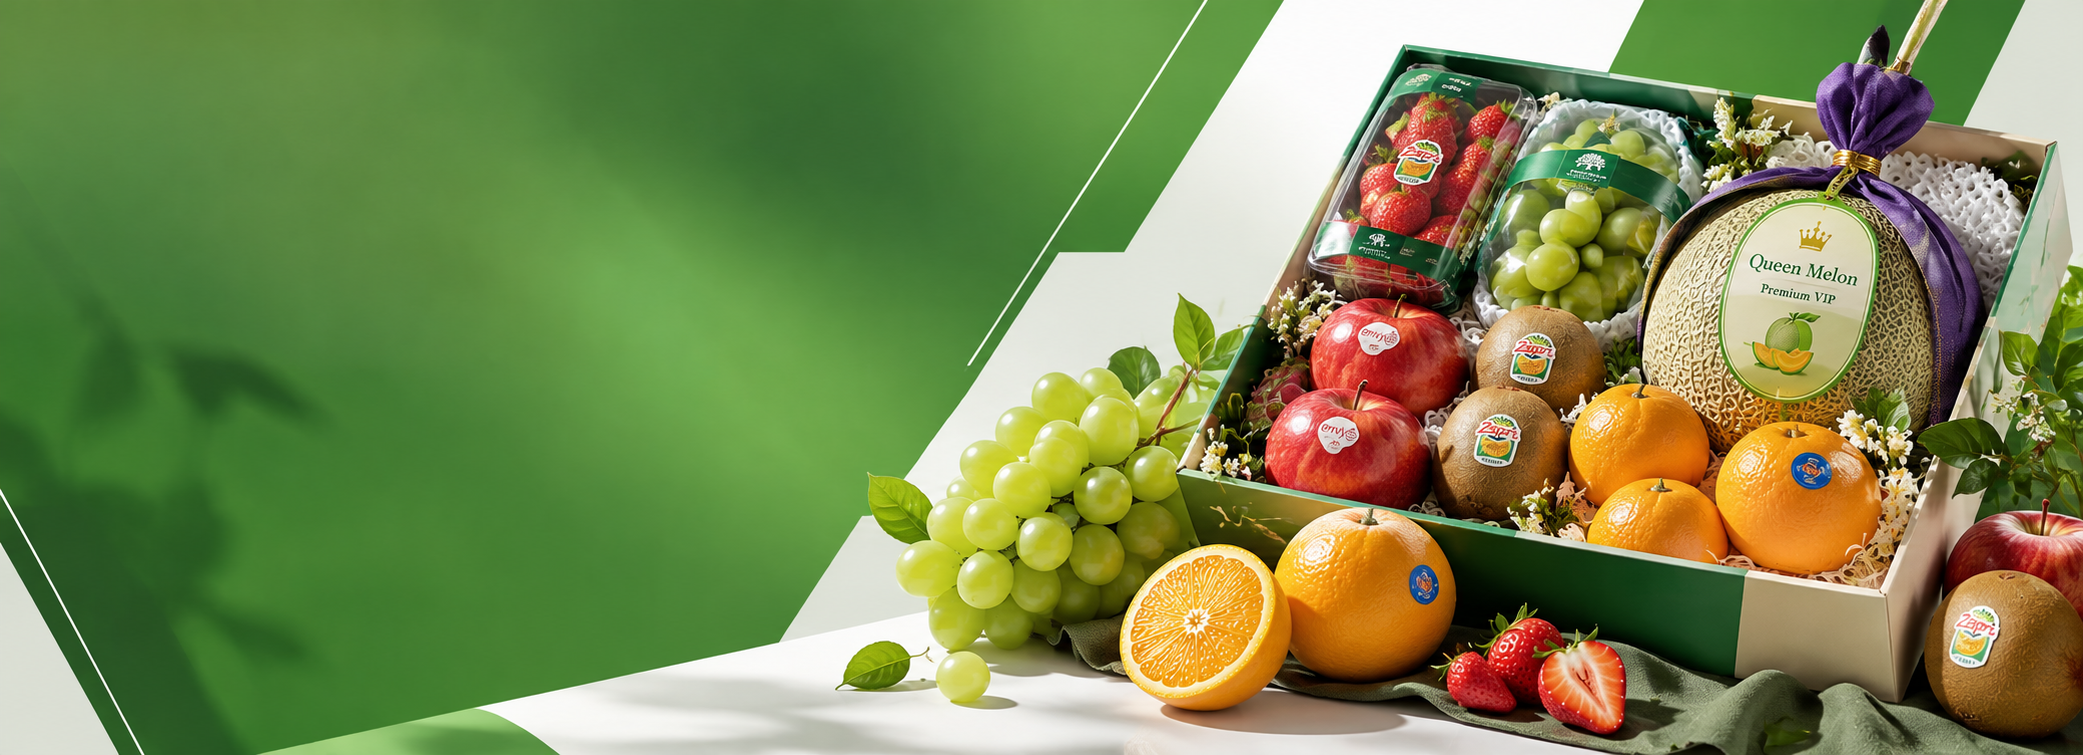
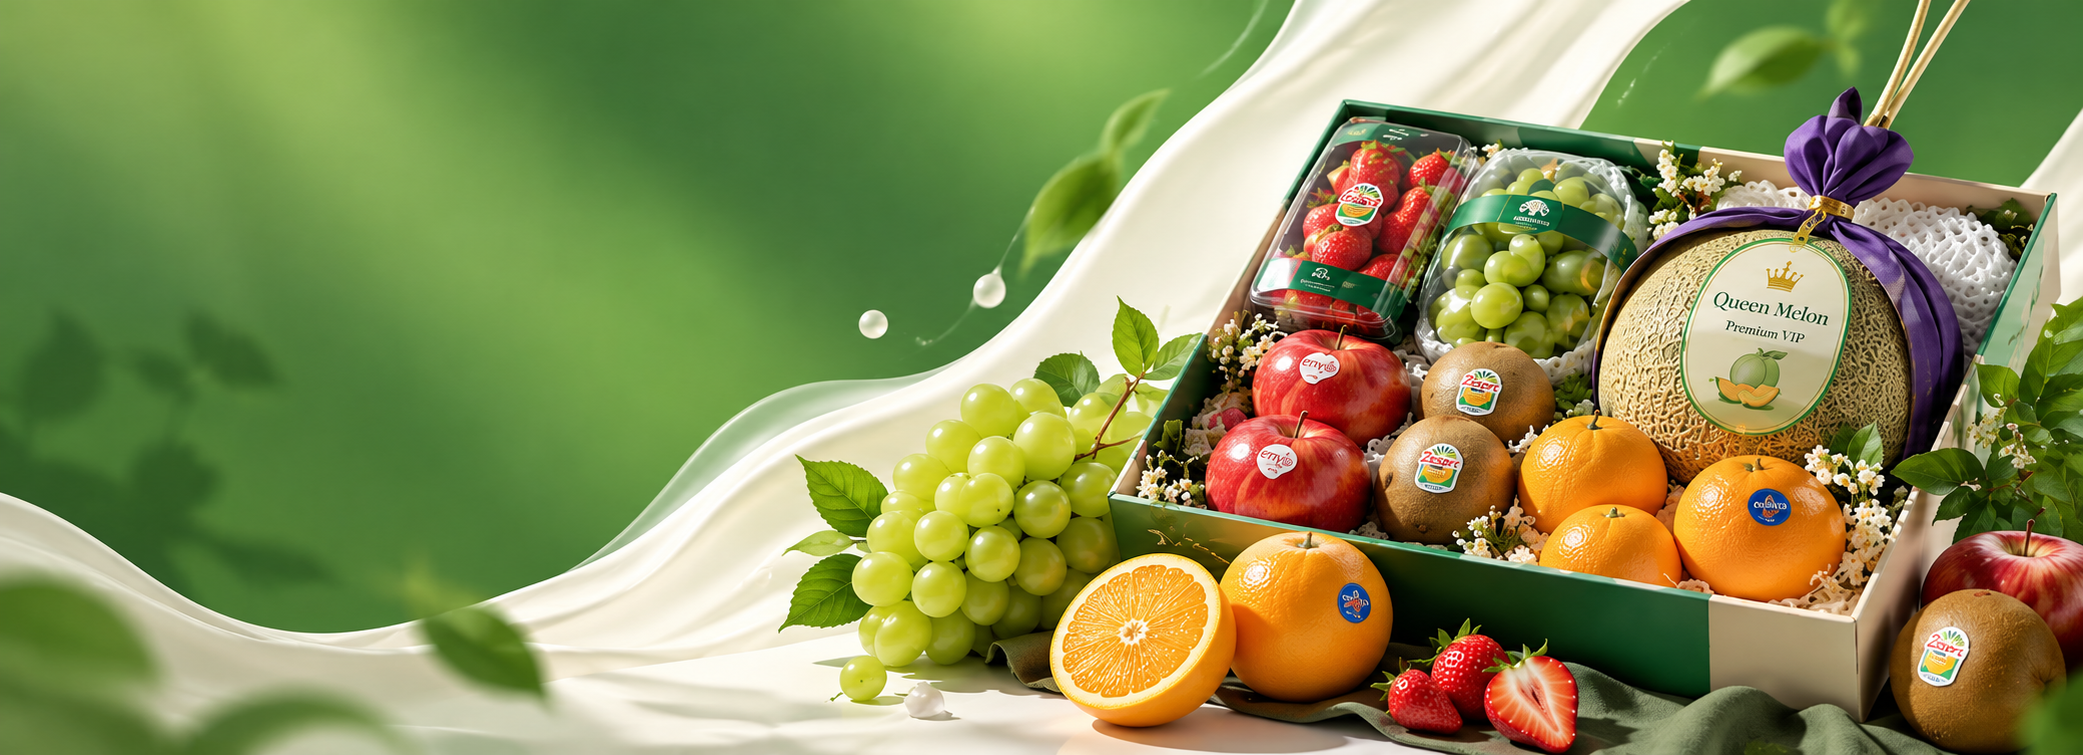
feat: add premium basket catalogue

diff --git a/src/data/catalog.ts b/src/data/catalog.ts
@@ -75,11 +75,20 @@ export const products: Product[] = [
   { slug: 'kh-07', name: 'Giỏ Trái Cây KH 07', code: 'KH07', price: '599.000đ', priceValue: 599000, ingredients: 'Cam Nam Phi, lê sữa, táo Dazzle, quýt Úc, táo Nam Phi và táo xanh.', image: '/products/kh07-front.png', imageBack: '/products/kh07-back.png', occasion: 'Gia đình', type: 'Giỏ trái cây' },
   { slug: 'kh-11', name: 'Giỏ Trái Cây KH 11', code: 'KH11', price: '699.000đ', priceValue: 699000, ingredients: 'Nho đen, lê sữa, cam Nam Phi, táo xanh, táo Dazzle, quýt Úc, kiwi vàng và táo Nam Phi.', tag: 'Bán chạy', image: '/products/kh11-front.png', imageBack: '/products/kh11-back.png', occasion: 'Sinh nhật', type: 'Giỏ trái cây' },
   { slug: 'kh-13', name: 'Giỏ Trái Cây KH 13', code: 'KH13', price: '800.000đ', priceValue: 800000, ingredients: 'Dưa Đài Queen, lê nâu, cam Nam Phi, táo Dazzle, quýt Úc, nho mẫu đơn và táo Nam Phi.', tag: 'Cao cấp', image: '/products/kh13-front.png', imageBack: '/products/kh13-back.png', occasion: 'Biếu đối tác', type: 'Giỏ trái cây' },
+  { slug: 'ely-12', name: 'Giỏ Trái Cây Ely 12', code: 'ELY12', price: '1.200.000đ', priceValue: 1200000, ingredients: 'Hoa tươi hai bên, táo xanh và nho mẫu đơn.', image: '/products/optimized/gio-trai-cay-ely12-thu-dau-mot.webp', imageBack: '/products/optimized/gio-trai-cay-ely12-thu-dau-mot.webp', occasion: 'Sinh nhật', type: 'Giỏ trái cây' },
+  { slug: 'kh-16', name: 'Giỏ Trái Cây KH 16', code: 'KH16', price: '1.200.000đ', priceValue: 1200000, ingredients: 'Táo Envy, táo Dazzle, cam Nam Phi, lê Nam Phi, nho mẫu đơn, quýt Úc, lê nâu và táo Nam Phi.', image: '/products/optimized/gio-trai-cay-kh16-thu-dau-mot.webp', imageBack: '/products/optimized/gio-trai-cay-kh16-thu-dau-mot.webp', occasion: 'Biếu đối tác', type: 'Giỏ trái cây' },
+  { slug: 'kh-17', name: 'Giỏ Trái Cây KH 17', code: 'KH17', price: '1.200.000đ', priceValue: 1200000, ingredients: 'Dưa lưới Đài, lê nâu, táo Dazzle, táo Envy, cam Nam Phi, táo xanh, quýt Úc, lê Nam Phi, lựu, chà là Thái và táo Nam Phi.', image: '/products/optimized/gio-trai-cay-kh17-thu-dau-mot.webp', imageBack: '/products/optimized/gio-trai-cay-kh17-thu-dau-mot.webp', occasion: 'Biếu đối tác', type: 'Giỏ trái cây' },
+  { slug: 'ely-13', name: 'Giỏ Trái Cây Ely 13', code: 'ELY13', price: '1.800.000đ', priceValue: 1800000, ingredients: 'Hoa tươi, nho mẫu đơn, táo Dazzle, quýt Úc, kiwi vàng, táo xanh và táo tàu theo mùa.', image: '/products/optimized/gio-trai-cay-ely13-thu-dau-mot.webp', imageBack: '/products/optimized/gio-trai-cay-ely13-thu-dau-mot.webp', occasion: 'Sinh nhật', type: 'Giỏ trái cây' },
+  { slug: 'ely-14', name: 'Giỏ Trái Cây Ely 14', code: 'ELY14', price: '1.800.000đ', priceValue: 1800000, ingredients: 'Hoa tươi, nho mẫu đơn, táo Dazzle, quýt Úc, kiwi vàng, táo xanh, lê sữa, táo Nam Phi và lê Nam Phi.', image: '/products/optimized/gio-trai-cay-ely14-thu-dau-mot.webp', imageBack: '/products/optimized/gio-trai-cay-ely14-thu-dau-mot.webp', occasion: 'Biếu đối tác', type: 'Giỏ trái cây' },
+  { slug: 'ely-15', name: 'Giỏ Trái Cây Ely 15', code: 'ELY15', price: '1.800.000đ', priceValue: 1800000, ingredients: 'Hoa tươi, táo Dazzle, quýt Úc, kiwi vàng, cherry, táo xanh và táo tàu theo mùa.', image: '/products/optimized/gio-trai-cay-ely15-thu-dau-mot.webp', imageBack: '/products/optimized/gio-trai-cay-ely15-thu-dau-mot.webp', occasion: 'Sinh nhật', type: 'Giỏ trái cây' },
+  { slug: 'ely-16', name: 'Giỏ Trái Cây Ely 16', code: 'ELY16', price: '1.800.000đ', priceValue: 1800000, ingredients: 'Hoa tươi hai bên, dưa lưới Đài, nho mẫu đơn, cam Úc, táo Envy, quýt Úc, táo Dazzle, kiwi vàng và táo cherry.', image: '/products/optimized/gio-trai-cay-ely16-thu-dau-mot.webp', imageBack: '/products/optimized/gio-trai-cay-ely16-thu-dau-mot.webp', occasion: 'Biếu đối tác', type: 'Giỏ trái cây' },
+  { slug: 'ely-18', name: 'Giỏ Trái Cây Ely 18', code: 'ELY18', price: '2.000.000đ', priceValue: 2000000, ingredients: 'Hoa tươi hai bên, dưa lưới Đài, lê sữa, dưa lê Hàn, nho xanh Mỹ, kiwi vàng, lựu, táo Envy, quýt Úc, cam Nam Phi, lê nâu, táo Dazzle, táo Nam Phi và táo xanh.', image: '/products/optimized/gio-trai-cay-ely18-thu-dau-mot.webp', imageBack: '/products/optimized/gio-trai-cay-ely18-thu-dau-mot.webp', occasion: 'Biếu đối tác', type: 'Giỏ trái cây' },
+  { slug: 'kh-18', name: 'Giỏ Trái Cây KH 18', code: 'KH18', price: '2.000.000đ', priceValue: 2000000, ingredients: 'Dưa lưới Đài, kiwi vàng, cam Úc, lê nâu, quýt Úc, táo Envy, lê Nam Phi, nho mẫu đơn, táo Fuji, táo xanh, táo Dazzle và táo Nam Phi.', image: '/products/optimized/gio-trai-cay-kh18-thu-dau-mot.webp', imageBack: '/products/optimized/gio-trai-cay-kh18-thu-dau-mot.webp', occasion: 'Biếu đối tác', type: 'Giỏ trái cây' },
   ...([
     ['ely01', 'ELY01', 'Giỏ Trái Cây Ely 01', 699000], ['ely02', 'ELY02', 'Giỏ Trái Cây Ely 02', 699000], ['ely03', 'ELY03', 'Giỏ Trái Cây Ely 03', 699000],
     ['ely04', 'ELY04', 'Giỏ Trái Cây Ely 04', 699000], ['ely05', 'ELY05', 'Giỏ Trái Cây Ely 05', 800000], ['ely08', 'ELY08', 'Giỏ Trái Cây Ely 08', 1000000], ['ely09', 'ELY09', 'Giỏ Trái Cây Ely 09', 1000000],
     ['hq01', 'HQ01', 'Hộp Quà HQ 01', 399000], ['hq02', 'HQ02', 'Hộp Quà HQ 02', 399000], ['hq03', 'HQ03', 'Hộp Quà HQ 03', 399000], ['hq04', 'HQ04', 'Hộp Quà HQ 04', 399000], ['hq05', 'HQ05', 'Hộp Quà HQ 05', 399000],
-    ['k01', 'K01', 'Giỏ Trái Cây K 01', 499000], ['k02', 'K02', 'Giỏ Trái Cây K 02', 499000], ['kh02', 'KH02', 'Giỏ Trái Cây KH 02', 499000], ['kh03', 'KH03', 'Giỏ Trái Cây KH 03', 499000], ['kh04', 'KH04', 'Giỏ Trái Cây KH 04', 499000], ['kh05', 'KH05', 'Giỏ Trái Cây KH 05', 499000], ['kh06', 'KH06', 'Giỏ Trái Cây KH 06', 499000], ['kh08', 'KH08', 'Giỏ Trái Cây KH 08', 599000], ['kh09', 'KH09', 'Giỏ Trái Cây KH 09', 599000], ['kh10', 'KH10', 'Giỏ Trái Cây KH 10', 599000], ['kh12', 'KH12', 'Giỏ Trái Cây KH 12', 699000], ['kh14', 'KH14', 'Giỏ Trái Cây KH 14', 800000], ['kh15', 'KH15', 'Giỏ Trái Cây KH 15', 800000], ['kh16', 'KH16', 'Giỏ Trái Cây KH 16', 1000000], ['kh53', 'KH53', 'Giỏ Trái Cây KH 53', 699000],
+    ['k01', 'K01', 'Giỏ Trái Cây K 01', 499000], ['k02', 'K02', 'Giỏ Trái Cây K 02', 499000], ['kh02', 'KH02', 'Giỏ Trái Cây KH 02', 499000], ['kh03', 'KH03', 'Giỏ Trái Cây KH 03', 499000], ['kh04', 'KH04', 'Giỏ Trái Cây KH 04', 499000], ['kh05', 'KH05', 'Giỏ Trái Cây KH 05', 499000], ['kh06', 'KH06', 'Giỏ Trái Cây KH 06', 499000], ['kh08', 'KH08', 'Giỏ Trái Cây KH 08', 599000], ['kh09', 'KH09', 'Giỏ Trái Cây KH 09', 599000], ['kh10', 'KH10', 'Giỏ Trái Cây KH 10', 599000], ['kh12', 'KH12', 'Giỏ Trái Cây KH 12', 699000], ['kh14', 'KH14', 'Giỏ Trái Cây KH 14', 800000], ['kh15', 'KH15', 'Giỏ Trái Cây KH 15', 800000], ['kh53', 'KH53', 'Giỏ Trái Cây KH 53', 699000],
     ['kq02', 'KQ02', 'Giỏ Quà Tết KQ 02', 499000], ['q01', 'Q01', 'Quà Tặng Q 01', 399000], ['q02', 'Q02', 'Quà Tặng Q 02', 399000], ['q03', 'Q03', 'Quà Tặng Q 03', 399000],
   ] as Array<[string, string, string, number]>).map(([id, code, name, priceValue], index) => ({
     slug: id,

diff --git a/src/App.tsx b/src/App.tsx
@@ -239,7 +239,7 @@ function CategoryGrid() {
 function FilterBar({ active, setActive }: { active: string; setActive: (value: string) => void }) {
   const [open, setOpen] = useState(false)
   const groups = [
-    ['Khoảng giá', ['399.000đ', '499.000đ', '599.000đ', '699.000đ', '800.000đ', '1.000.000đ']],
+    ['Khoảng giá', ['399.000đ', '499.000đ', '599.000đ', '699.000đ', '800.000đ', '1.000.000đ', '1.200.000đ', '1.800.000đ', '2.000.000đ']],
     ['Dịp tặng', ['Tết', 'Sinh nhật', 'Biếu đối tác', 'Quà doanh nghiệp', 'Thăm bệnh', 'Cảm ơn', 'Cưới hỏi']],
     ['Loại sản phẩm', ['Giỏ trái cây', 'Hộp quà', 'Set quà cao cấp', 'Mâm lễ', 'Tráp cưới']],
     ['Phong cách', ['Sang trọng', 'Hiện đại', 'Tối giản', 'Truyền thống']],
@@ -280,7 +280,7 @@ function Hero({ onVisibilityChange }: HeroProps) {
 
   return (
     <section className="hero" id="home-hero" ref={heroRef}>
-      <img className="hero-banner" src="/hero/ely-fruit-banner.png" alt="Giỏ quà trái cây cao cấp Ely Fruit với nho, dâu, cam và dưa lưới" fetchPriority="high" />
+      <img className="hero-banner" src="/hero/ely-fruit-banner.png" alt="Hộp quà trái cây cao cấp Ely Fruit với dưa lưới, dâu, nho xanh, táo, cam và kiwi" fetchPriority="high" />
       <div className="container hero-grid">
         <div className={isHeroVisible ? 'hero-content is-visible' : 'hero-content'}>
           <span className="eyebrow hero-reveal hero-reveal-eyebrow">Trao tặng điều tươi lành</span>
@@ -397,6 +397,9 @@ interface HomePageProps {
 }
 
 function HomePage({ onHeroVisibilityChange }: HomePageProps) {
+  const featuredProductSlugs = ['ely-06', 'ely-07', 'ely-10', 'kh-13', 'ely-12', 'kh-17', 'ely-16', 'ely-18']
+  const featuredProducts = products.filter(product => featuredProductSlugs.includes(product.slug))
+
   return <>
     <Hero onVisibilityChange={onHeroVisibilityChange} />
     <TrustMetrics />
@@ -404,7 +407,7 @@ function HomePage({ onHeroVisibilityChange }: HomePageProps) {
     <main>
       <section className="section categories-section"><div className="container"><div className="category-heading"><SectionHeading eyebrow="Danh mục" title="Chọn quà theo nhu cầu" text="Tìm nhanh giỏ quà, trái cây, mâm lễ và quà doanh nghiệp phù hợp." action={<Button href="/catalogue" variant="ghost">Xem catalogue <ArrowRight size={17} /></Button>} /></div><CategoryGrid /></div></section>
       <DailyFruitCarousel />
-      <section id="products" className="section products-section landing-anchor"><div className="container"><SectionHeading eyebrow="Sản phẩm" title="Giỏ quà Ely Fruit" text="Giá, mã sản phẩm và thành phần được hiển thị rõ ràng để bạn dễ lựa chọn." action={<Button href="/gio-trai-cay" variant="secondary">Xem tất cả giỏ quà</Button>} /><div className="product-grid mobile-snap-rail">{products.slice(0, 8).map(p => <ProductCard key={p.slug} product={p} />)}</div></div></section>
+      <section id="products" className="section products-section landing-anchor"><div className="container"><SectionHeading eyebrow="Sản phẩm" title="Giỏ quà Ely Fruit" text="Giá, mã sản phẩm và thành phần được hiển thị rõ ràng để bạn dễ lựa chọn." action={<Button href="/gio-trai-cay" variant="secondary">Xem tất cả giỏ quà</Button>} /><div className="product-grid mobile-snap-rail">{featuredProducts.map(product => <ProductCard key={product.slug} product={product} />)}</div></div></section>
       <section id="process" className="section order-steps landing-anchor"><div className="container"><div className="process-heading-wrap"><SectionHeading eyebrow="Đặt quà đơn giản" title="Ba bước để gửi một món quà chỉn chu" text="Từ lúc chọn mẫu đến khi người nhận mở quà, Ely Fruit đồng hành cùng bạn." /><span className="process-mark" aria-hidden="true">Từ vườn đến tay người nhận</span></div><div className="process-timeline"><article><span className="process-step">01</span><div className="process-icon"><Gift /></div><h3>Chọn mẫu</h3><p>Xem nhanh các mẫu theo ngân sách, dịp tặng và phong cách bạn muốn.</p><a href="/gio-trai-cay">Khám phá giỏ quà <ArrowRight size={15} /></a></article><article><span className="process-step">02</span><div className="process-icon"><MessageCircle /></div><h3>Xác nhận</h3><p>Nhắn Zalo để thống nhất thành phần, thiệp, ngân sách và thời gian chuẩn bị.</p><a href={ZALO_URL} target="_blank" rel="noreferrer">Nhắn Zalo tư vấn <ArrowRight size={15} /></a></article><article><span className="process-step">03</span><div className="process-icon"><PackageCheck /></div><h3>Giao nhận</h3><p>Xác nhận địa chỉ và khung giờ trước khi hoàn thiện đơn quà chỉn chu.</p><a href={PHONE_LINK}>Gọi xác nhận đơn <ArrowRight size={15} /></a></article></div></div></section>
       <div id="about" className="landing-anchor"><LocalSection /></div>
       <FAQSection />

diff --git a/src/index.css b/src/index.css
@@ -102,8 +102,9 @@ p { line-height: 1.72; color: var(--text-secondary); }
 .hero-content h1 em { color: #e5c982; font-weight: 400; }
 .hero-content > p { max-width: 500px; color: #e3eee7; font-size: 16px; }
 .hero-buttons { display: flex; gap: 12px; margin: 34px 0; }
-.hero-meta { display: flex; align-items: center; gap: 22px; flex-wrap: wrap; }
-.hero-meta a, .hero-meta span { display: flex; align-items: center; gap: 7px; color: #f2f8ef; font-size: 12px; text-decoration: none; font-weight: 600; }
+.hero-meta { display: flex; width: fit-content; align-items: center; gap: 22px; flex-wrap: wrap; padding: 11px 14px; border: 1px solid #ffffff2e; border-radius: 4px; background: #164625bd; box-shadow: 0 10px 28px #102e1b33; backdrop-filter: blur(8px); }
+.hero-meta a, .hero-meta span { display: flex; align-items: center; gap: 7px; color: #fff; font-size: 12px; text-decoration: none; font-weight: 700; }
+.hero-meta a:hover, .hero-meta a:focus-visible { color: #f0d38f; }
 .hero-reveal { opacity: 0; transform: translateY(12px); }
 .hero-content.is-visible .hero-reveal { animation: hero-reveal .55s cubic-bezier(.22, 1, .36, 1) both; }
 .hero-content.is-visible .hero-reveal-title { animation-delay: .08s; }
@@ -645,7 +646,7 @@ blockquote { font-family: 'Playfair Display', serif; font-size: 20px; line-heigh
   body { padding-bottom: 62px; }.container { width: min(100% - 28px, 560px); }.section { padding: 66px 0; }
   .header { height: 64px; }.logo-lockup img { width: 42px; height: 42px; }.logo-lockup strong { font-size: 15px; }.logo-lockup small { display: none; }.header-inner > .logo-lockup span { display: none; }.icon-btn, .mobile-call { width: 37px; height: 37px; }.mobile-call { border-color: #236b38; background: #236b38; color: #fff; animation: mobileContactPulse 1.8s ease-in-out infinite; }.mobile-zalo-pulse { animation: mobileContactPulse 1.8s ease-in-out infinite; }
   h1 { font-size: 46px; } h2 { font-size: 39px; }
-  .hero, .hero-grid { min-height: 500px; }.hero-banner { object-position: 62% center; }.hero-content { padding-bottom: 0; }.hero-content h1 { margin-top: 14px; }.hero-content > p { font-size: 16px; }.hero-buttons { display: grid; grid-template-columns: 1fr 1fr; margin: 25px 0; }.hero-buttons .btn { padding: 0 12px; font-size: 13px; }.hero-meta { gap: 13px; }.hero-meta span:nth-child(3) { display: none; }
+  .hero, .hero-grid { min-height: 500px; }.hero-banner { object-position: 62% center; }.hero-content { padding-bottom: 0; }.hero-content h1 { margin-top: 14px; }.hero-content > p { font-size: 16px; }.hero-buttons { display: grid; grid-template-columns: 1fr 1fr; margin: 25px 0; }.hero-buttons .btn { min-width: 0; padding: 0 12px; font-size: 13px; }.hero-meta { width: 100%; gap: 12px; padding: 10px 12px; }.hero-meta a, .hero-meta span { min-width: 0; font-size: 11px; }.hero-meta span:nth-child(3) { display: none; }
   .trust-metrics-intro { padding: 22px 0 16px; }.trust-metrics-intro p { max-width: 310px; margin-top: 7px; font-size: 13px; line-height: 1.55; }.trust-metrics-grid > a, .trust-metrics-grid > div:not(.trust-metrics-intro) { min-height: 96px; padding: 16px; border-top: 1px solid #eee5db; }.trust-metrics-grid > a:nth-child(2) { border-left: 0; }.trust-metrics-grid > a:nth-child(3) { border-left: 1px solid #eee5db; }.trust-metrics-grid > div:last-child { grid-column: span 2; min-height: 86px; border-left: 0; }.trust-metrics-grid strong { font-size: 29px; }.trust-metrics-grid span { font-size: 12px; }.trust-metrics-grid small { font-size: 11px; }
   .welcome-section { padding: 38px 0; }.welcome-layout { gap: 19px; }.welcome-layout::before { width: 126px; height: 126px; right: -12px; }.welcome-heading h2 { max-width: 345px; font-size: 32px; }.welcome-message { padding: 16px 0 0 24px; }.welcome-message p { font-size: 13px; line-height: 1.65; }.welcome-quote { top: -26px; left: 8px; font-size: 82px; }
   .section-heading { align-items: start; flex-direction: column; margin-bottom: 28px; }.section-heading p { font-size: 14px; }.section-heading .btn { display: none; }

diff --git a/src/app/routing.test.ts b/src/app/routing.test.ts
@@ -92,6 +92,16 @@ test('canonicalizes the imported fruit alias to the retail fruit category', () =
   assert.equal(getRoute('/trai-cay-nhap-khau')?.path, '/trai-cay')
 })
 
+test('lists canonical routes for sitemap generation', () => {
+  assert.ok(staticRoutes.includes('/trai-cay'))
+  assert.ok(staticRoutes.includes('/gio-trai-cay/499k'))
+  assert.ok(staticRoutes.every(route => route !== '/trai-cay-nhap-khau'))
+
+  for (const product of products) {
+    assert.ok(staticRoutes.includes(`/san-pham/${product.slug}`))
+  }
+})
+
 test('gives retail fruit products complete catalogue details', () => {
   for (const fruit of fruitProducts) {
     assert.match(fruit.image, /^\/Giỏ thiết kế-/)
@@ -108,4 +118,35 @@ test('gives every product an explicit ingredient note', () => {
     assert.notEqual(product.ingredients, genericIngredients)
     assert.ok(product.ingredients.length >= 20)
   }
+})
+
+test('includes optimized local image metadata for the new basket designs', () => {
+  const expectedCodes = ['ELY12', 'KH16', 'KH17', 'ELY13', 'ELY14', 'ELY15', 'ELY16', 'ELY18', 'KH18']
+
+  for (const code of expectedCodes) {
+    const product = products.find(item => item.code === code)
+
+    assert.ok(product)
+    assert.match(product.image, new RegExp(`/products/optimized/gio-trai-cay-${code.toLowerCase()}-thu-dau-mot\\.webp$`))
+    assert.equal(product.imageBack, product.image)
+    assert.ok(product.priceValue >= 1200000)
+    assert.equal(getRoute(`/san-pham/${product.slug}`)?.product?.code, code)
+  }
+})
+
+test('includes the new high-price basket ranges', () => {
+  const prices = new Set(products.map(product => product.price))
+
+  assert.ok(prices.has('1.200.000đ'))
+  assert.ok(prices.has('1.800.000đ'))
+  assert.ok(prices.has('2.000.000đ'))
+})
+
+test('includes all nine new basket designs in the catalogue', () => {
+  const expectedCodes = ['ELY12', 'KH16', 'KH17', 'ELY13', 'ELY14', 'ELY15', 'ELY16', 'ELY18', 'KH18']
+
+  assert.equal(
+    products.filter(product => expectedCodes.includes(product.code)).length,
+    expectedCodes.length
+  )
 })

diff --git a/src/app/static-routes.ts b/src/app/static-routes.ts
@@ -11,7 +11,6 @@ const categoryRoutes = [
   '/gio-trai-cay/399k',
   '/gio-trai-cay/499k',
   '/gio-trai-cay/599k',
-  '/trai-cay-nhap-khau',
   '/gio-qua-doanh-nghiep',
   '/gio-qua-tet',
   '/mam-le-trap-cuoi',
